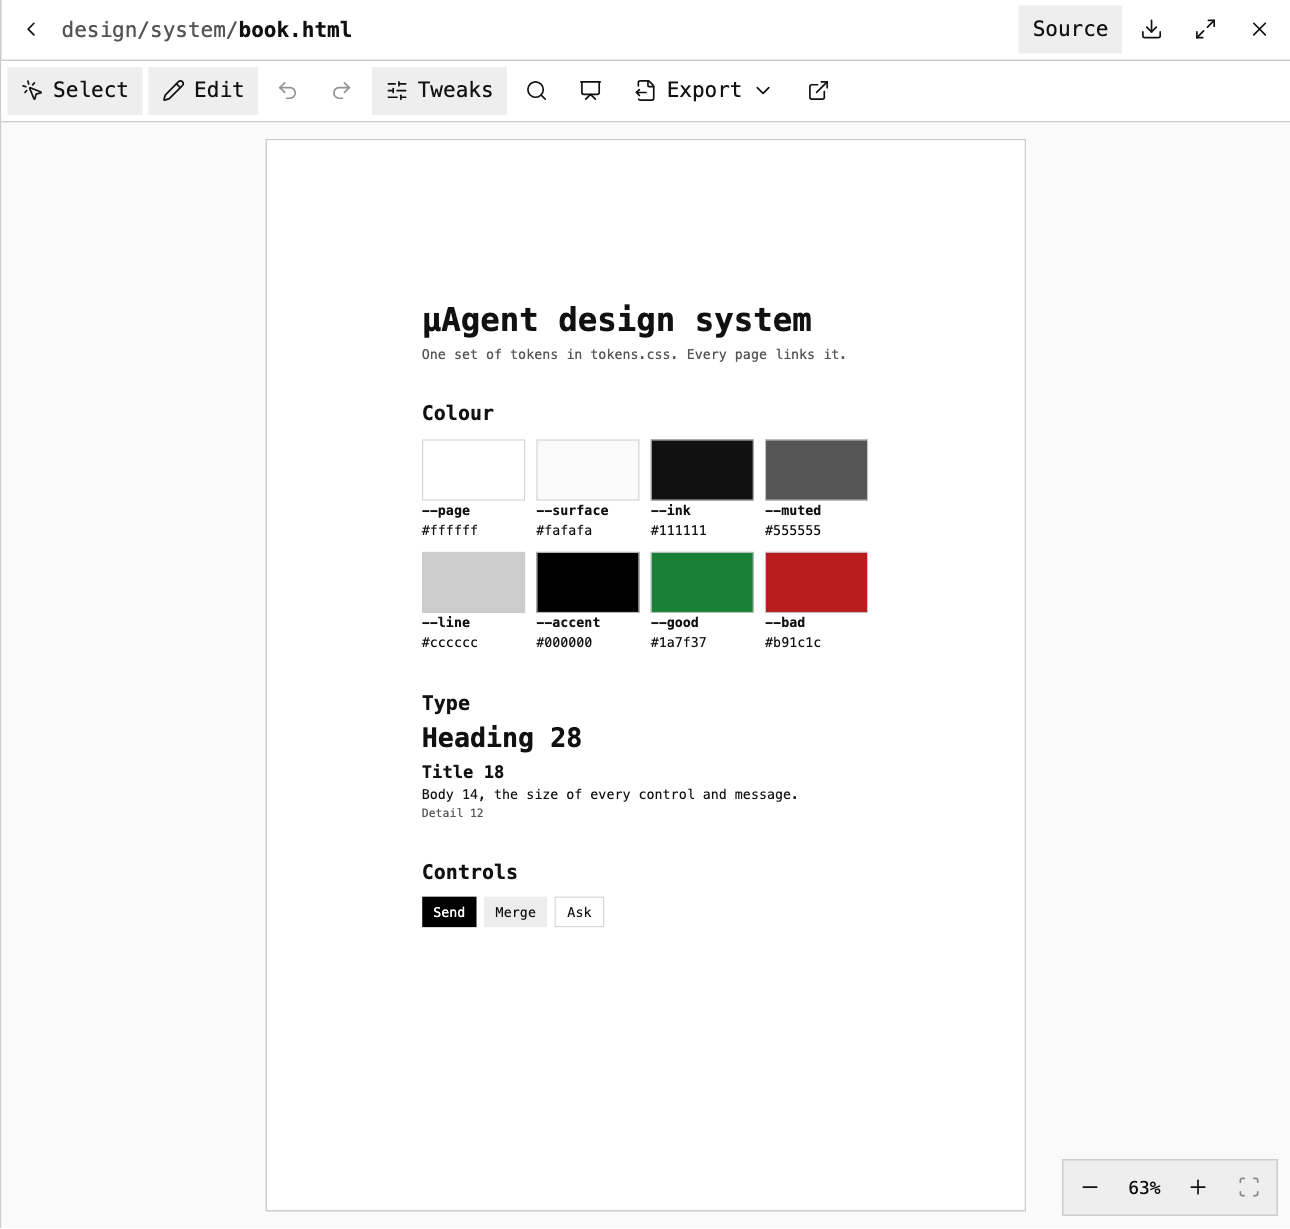
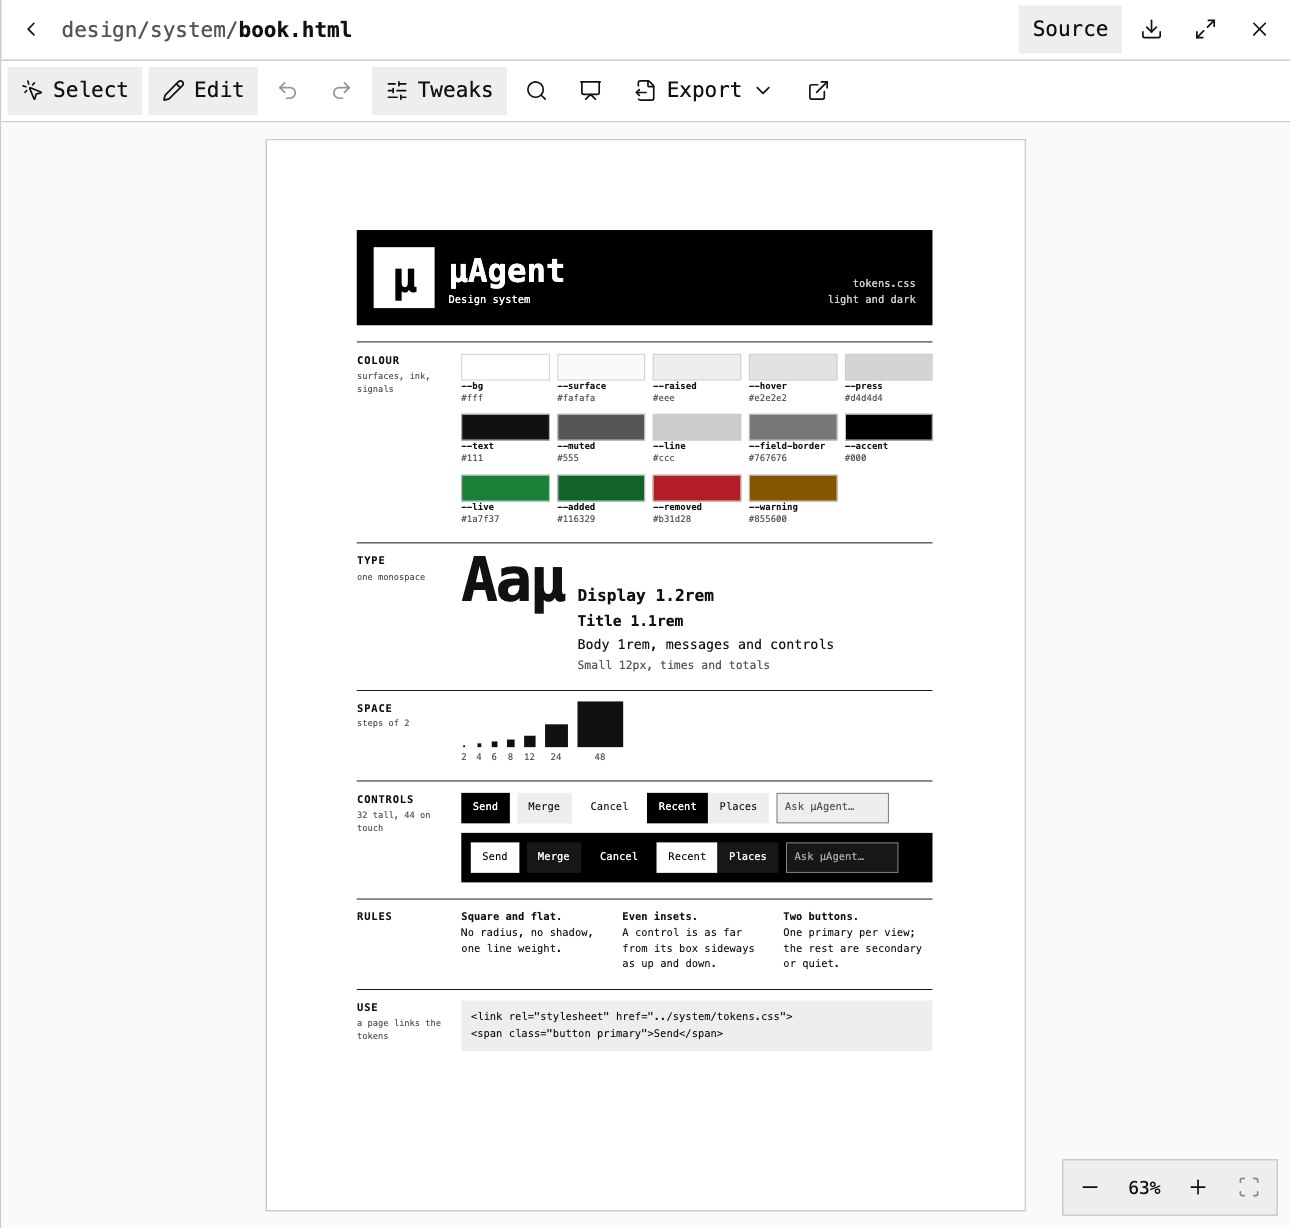
Draw the sample brand book from the app's own tokens, as one full page

Changed region(s): [[0.2791, 0.1855, 0.7442, 0.8657], [0.2791, 0.8039, 0.3411, 0.8348]]

diff --git a/web/recordings/artifacts.rec.js b/web/recordings/artifacts.rec.js
@@ -18,35 +18,95 @@ test.use({
   video: "off",
 });
 
-const tokens = `:root {
-  --page: #ffffff; --surface: #fafafa; --ink: #111111; --muted: #555555;
-  --line: #cccccc; --accent: #000000; --good: #1a7f37; --bad: #b91c1c;
+const tokens = `:root, [data-theme="light"] {
+  --bg: #fff; --surface: #fafafa; --raised: #eee; --hover: #e2e2e2; --press: #d4d4d4;
+  --text: #111; --muted: #555; --line: #ccc; --field-border: #767676;
+  --accent: #000; --on-accent: #fff;
+  --live: #1a7f37; --added: #116329; --removed: #b31d28; --warning: #855600;
+}
+[data-theme="dark"] {
+  --bg: #000; --surface: #0a0a0a; --raised: #171717; --hover: #232323; --press: #2e2e2e;
+  --text: #f5f5f5; --muted: #a3a3a3; --line: #404040; --field-border: #8a8a8a;
+  --accent: #fff; --on-accent: #000;
+  --live: #22a35a; --added: #3fb950; --removed: #f85149; --warning: #e3b341;
+}
+:root {
   --font: ui-monospace, SFMono-Regular, Menlo, Consolas, monospace;
-  --space: 8px; --control: 32px;
+  --space-2: 4px; --space-4: 8px; --space-6: 12px; --space-12: 24px;
+  --control: 32px; --touch: 44px;
 }
 * { box-sizing: border-box }
-body { margin: 0; background: var(--page); color: var(--ink); font: 14px/1.5 var(--font) }
+body { margin: 0; background: var(--bg); color: var(--text); font: 14px/1.5 var(--font) }
 h1, h2, p { margin: 0 }
-.button { display: inline-flex; align-items: center; height: var(--control); padding: 0 12px; background: #ededed }
-.button.primary { background: var(--accent); color: var(--page) }
+.button { display: inline-flex; align-items: center; gap: 6px; height: var(--control); padding: 0 var(--space-6); background: var(--raised); color: var(--text) }
+.button.primary { background: var(--accent); color: var(--on-accent) }
+.button.quiet { background: none }
 .line { border: 1px solid var(--line) }
 `;
 const linked = (path) => `<link rel="stylesheet" href="${path}">`;
 const swatch = (name, value) =>
-  `<div><div class="line" style="height:64px;background:var(${name})"></div><b>${name}</b><br>${value}</div>`;
+  `<div><i style="background:var(--${name})"></i><b>--${name}</b><span>${value}</span></div>`;
+const bookStyle = `
+body { font-size: 11px }
+main { display: grid; gap: 4.5mm }
+.cover { display: flex; align-items: flex-end; gap: 14px; padding: 18px; background: var(--accent); color: var(--on-accent) }
+.cover .mark { display: grid; place-items: center; width: 64px; height: 64px; background: var(--on-accent); color: var(--accent); font-size: 44px; font-weight: 700; line-height: 1 }
+.cover h1 { font-size: 34px; line-height: 1; margin-bottom: 6px }
+.cover p { margin-left: auto; text-align: right; opacity: 0.8 }
+section { display: grid; grid-template-columns: 24mm minmax(0, 1fr); gap: 5mm; padding-top: 3mm; border-top: 1px solid var(--text) }
+section > h2 { font-size: 11px; letter-spacing: 0.08em; text-transform: uppercase }
+section > h2 small { display: block; color: var(--muted); font-weight: 400; letter-spacing: 0; text-transform: none }
+.swatches { display: grid; grid-template-columns: repeat(5, minmax(0, 1fr)); gap: 10px 8px }
+.swatches i { display: block; height: 28px; border: 1px solid var(--line) }
+.swatches b, .swatches span { display: block; font-size: 9.5px; line-height: 1.35 }
+.swatches span { color: var(--muted) }
+.type { display: grid; grid-template-columns: auto minmax(0, 1fr); gap: 2px 14px; align-items: baseline }
+.type span { color: var(--muted) }
+.glyphs { grid-row: span 4; font-size: 64px; font-weight: 700; line-height: 0.9; letter-spacing: -0.04em }
+.scale { display: flex; align-items: flex-end; gap: 10px }
+.scale div { display: grid; gap: 4px; justify-items: center; color: var(--muted); font-size: 9.5px }
+.scale i { display: block; background: var(--text) }
+.controls { display: flex; flex-wrap: wrap; gap: 8px; align-items: center }
+.field { display: inline-flex; align-items: center; height: var(--control); padding: 0 var(--space-4); width: 118px; border: 1px solid var(--field-border); background: var(--raised); color: var(--muted) }
+.tabs { display: inline-flex } .tabs .button { background: var(--raised) } .tabs .on { background: var(--accent); color: var(--on-accent) }
+pre { margin: 0; padding: 10px; background: var(--raised); font: inherit; white-space: pre-wrap }
+.dark { padding: 10px; display: flex; gap: 8px; align-items: center; background: var(--bg); color: var(--text) }
+.rules { display: grid; grid-template-columns: repeat(3, minmax(0, 1fr)); gap: 12px }
+.rules b { display: block }
+`;
+const bar = (px, label = px) =>
+  `<div><i style="width:${px}px;height:${px}px"></i>${label}</div>`;
+const controls = `<span class="button primary">Send</span><span class="button">Merge</span><span class="button quiet">Cancel</span><span class="tabs"><span class="button on">Recent</span><span class="button">Places</span></span>`;
 const book = paper(
   "µAgent design system",
-  `<section style="padding:18mm;display:grid;gap:10mm">
-  <header><h1 style="font-size:34px">µAgent design system</h1><p style="color:var(--muted)">One set of tokens in tokens.css. Every page links it.</p></header>
-  <div><h2>Colour</h2><div style="display:grid;grid-template-columns:repeat(4,1fr);gap:12px;margin-top:10px">
-    ${swatch("--page", "#ffffff")}${swatch("--surface", "#fafafa")}${swatch("--ink", "#111111")}${swatch("--muted", "#555555")}
-    ${swatch("--line", "#cccccc")}${swatch("--accent", "#000000")}${swatch("--good", "#1a7f37")}${swatch("--bad", "#b91c1c")}
-  </div></div>
-  <div><h2>Type</h2><p style="font-size:28px;font-weight:700">Heading 28</p><p style="font-size:18px;font-weight:700">Title 18</p><p>Body 14, the size of every control and message.</p><p style="font-size:12px;color:var(--muted)">Detail 12</p></div>
-  <div><h2>Controls</h2><p style="display:flex;gap:8px;margin-top:10px"><span class="button primary">Send</span><span class="button">Merge</span><span class="button line" style="background:none">Ask</span></p></div>
-</section>`,
+  `<main>
+  <header class="cover"><span class="mark">µ</span><div><h1>µAgent</h1>Design system</div><p>tokens.css<br>light and dark</p></header>
+  <section><h2>Colour<small>surfaces, ink, signals</small></h2><div class="swatches">
+    ${swatch("bg", "#fff")}${swatch("surface", "#fafafa")}${swatch("raised", "#eee")}${swatch("hover", "#e2e2e2")}${swatch("press", "#d4d4d4")}
+    ${swatch("text", "#111")}${swatch("muted", "#555")}${swatch("line", "#ccc")}${swatch("field-border", "#767676")}${swatch("accent", "#000")}
+    ${swatch("live", "#1a7f37")}${swatch("added", "#116329")}${swatch("removed", "#b31d28")}${swatch("warning", "#855600")}
+  </div></section>
+  <section><h2>Type<small>one monospace</small></h2><div class="type">
+    <b class="glyphs">Aaµ</b><b style="font-size:17px">Display 1.2rem</b>
+    <b style="font-size:15.4px">Title 1.1rem</b>
+    <span style="font-size:14px;color:var(--text)">Body 1rem, messages and controls</span>
+    <span style="font-size:12px">Small 12px, times and totals</span>
+  </div></section>
+  <section><h2>Space<small>steps of 2</small></h2><div class="scale">${[2, 4, 6, 8, 12, 24, 48].map((px) => bar(px)).join("")}</div></section>
+  <section><h2>Controls<small>32 tall, 44 on touch</small></h2><div style="display:grid;gap:10px">
+    <div class="controls">${controls}<span class="field">Ask µAgent…</span></div>
+    <div class="dark" data-theme="dark">${controls}<span class="field">Ask µAgent…</span></div>
+  </div></section>
+  <section><h2>Rules</h2><div class="rules">
+    <p><b>Square and flat.</b>No radius, no shadow, one line weight.</p>
+    <p><b>Even insets.</b>A control is as far from its box sideways as up and down.</p>
+    <p><b>Two buttons.</b>One primary per view; the rest are secondary or quiet.</p>
+  </div></section>
+  <section><h2>Use<small>a page links the tokens</small></h2><pre>&lt;link rel="stylesheet" href="../system/tokens.css"&gt;
+&lt;span class="button primary"&gt;Send&lt;/span&gt;</pre></section>
+</main>`,
   "a4",
-  linked("tokens.css"),
+  `${linked("tokens.css")}<style>${bookStyle}</style>`,
 );
 
 const frame = (title, size, body) =>
@@ -57,8 +117,8 @@ const frame = (title, size, body) =>
   );
 const header = (count) =>
   `<header class="line" style="display:flex;align-items:center;gap:8px;padding:4px 8px;border-width:0 0 1px"><b style="flex:1">Verify the footprint numbers</b><span class="button primary">Side chats ${count}</span><span class="button">Terminal</span><span class="button">Files</span></header>`;
-const column = `<aside class="line" style="width:36%;border-width:0 0 0 1px;padding:8px;display:grid;gap:8px;align-content:start"><p style="display:flex;gap:6px"><span class="button primary">Why streamed?</span><span class="button">Merge</span></p><p style="background:var(--ink);color:var(--page);padding:8px">Why streamed?</p><p>Each reply arrives as it is written.</p></aside>`;
-const talk = `<main style="flex:1;padding:12px;display:grid;gap:8px;align-content:start"><p style="background:var(--ink);color:var(--page);padding:8px">Check the idle memory against the raw samples.</p><p><b>The published median holds: 27.4 MiB idle.</b></p></main>`;
+const column = `<aside class="line" style="width:36%;border-width:0 0 0 1px;padding:8px;display:grid;gap:8px;align-content:start"><p style="display:flex;gap:6px"><span class="button primary">Why streamed?</span><span class="button">Merge</span></p><p style="background:var(--text);color:var(--bg);padding:8px">Why streamed?</p><p>Each reply arrives as it is written.</p></aside>`;
+const talk = `<main style="flex:1;padding:12px;display:grid;gap:8px;align-content:start"><p style="background:var(--text);color:var(--bg);padding:8px">Check the idle memory against the raw samples.</p><p><b>The published median holds: 27.4 MiB idle.</b></p></main>`;
 
 const plan = sheet("Release 1.13", {
   "Pull requests": [
@@ -86,7 +146,7 @@ body { width: 1280px; height: 720px; padding: 64px; display: flex; flex-directio
 h1 { font-size: 72px; line-height: 1.05 }
 h2 { font-size: 44px }
 li { font-size: 28px; margin: 12px 0 }
-.bar { height: 44px; background: var(--ink) }
+.bar { height: 44px; background: var(--text) }
 `;
 const page = (title, body, notes = "") =>
   artboard(title, `${body}<aside>${notes}</aside>`, "1280x720 slide").replace(
@@ -176,7 +236,7 @@ test("artifacts", async ({ page: app, session, host }) => {
     });
   };
   await shot("design-system", "design/system/book.html", (_, stage) =>
-    expect(stage.getByText("µAgent design system").first()).toBeVisible(),
+    expect(stage.getByText("Even insets.")).toBeVisible(),
   );
   await shot("design", "design/side-chats/", (files) =>
     expect(
